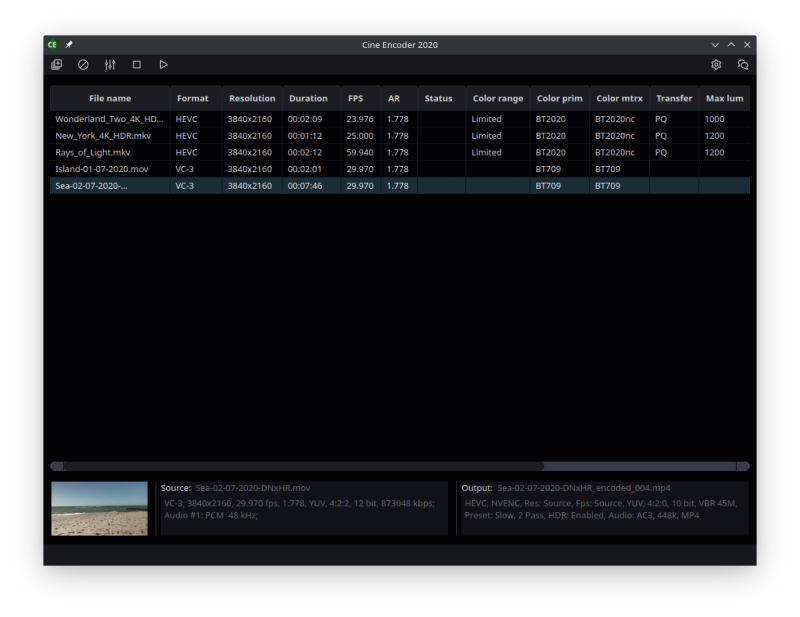
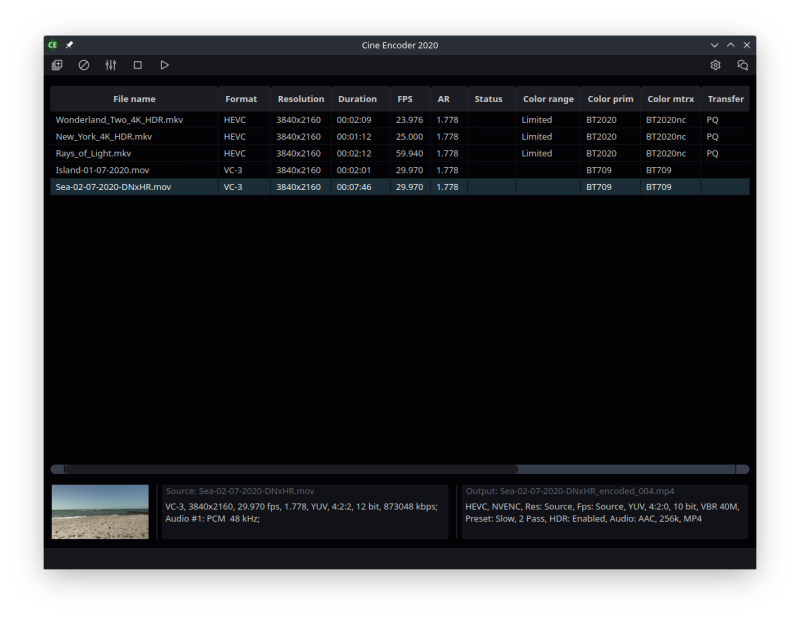
Renew files to v 3.0-5

diff --git a/app/mainwindow.cpp b/app/mainwindow.cpp
@@ -75,6 +75,7 @@ MainWindow::MainWindow(QWidget *parent) :
     ui->label_54->hide();
     ui->label_55->hide();
     ui->progressBar->hide();
+    ui->tableWidget->setColumnWidth(0, 250);
     int i = 1;
     while (i <= 35) {
         ui->tableWidget->resizeColumnToContents(i);
